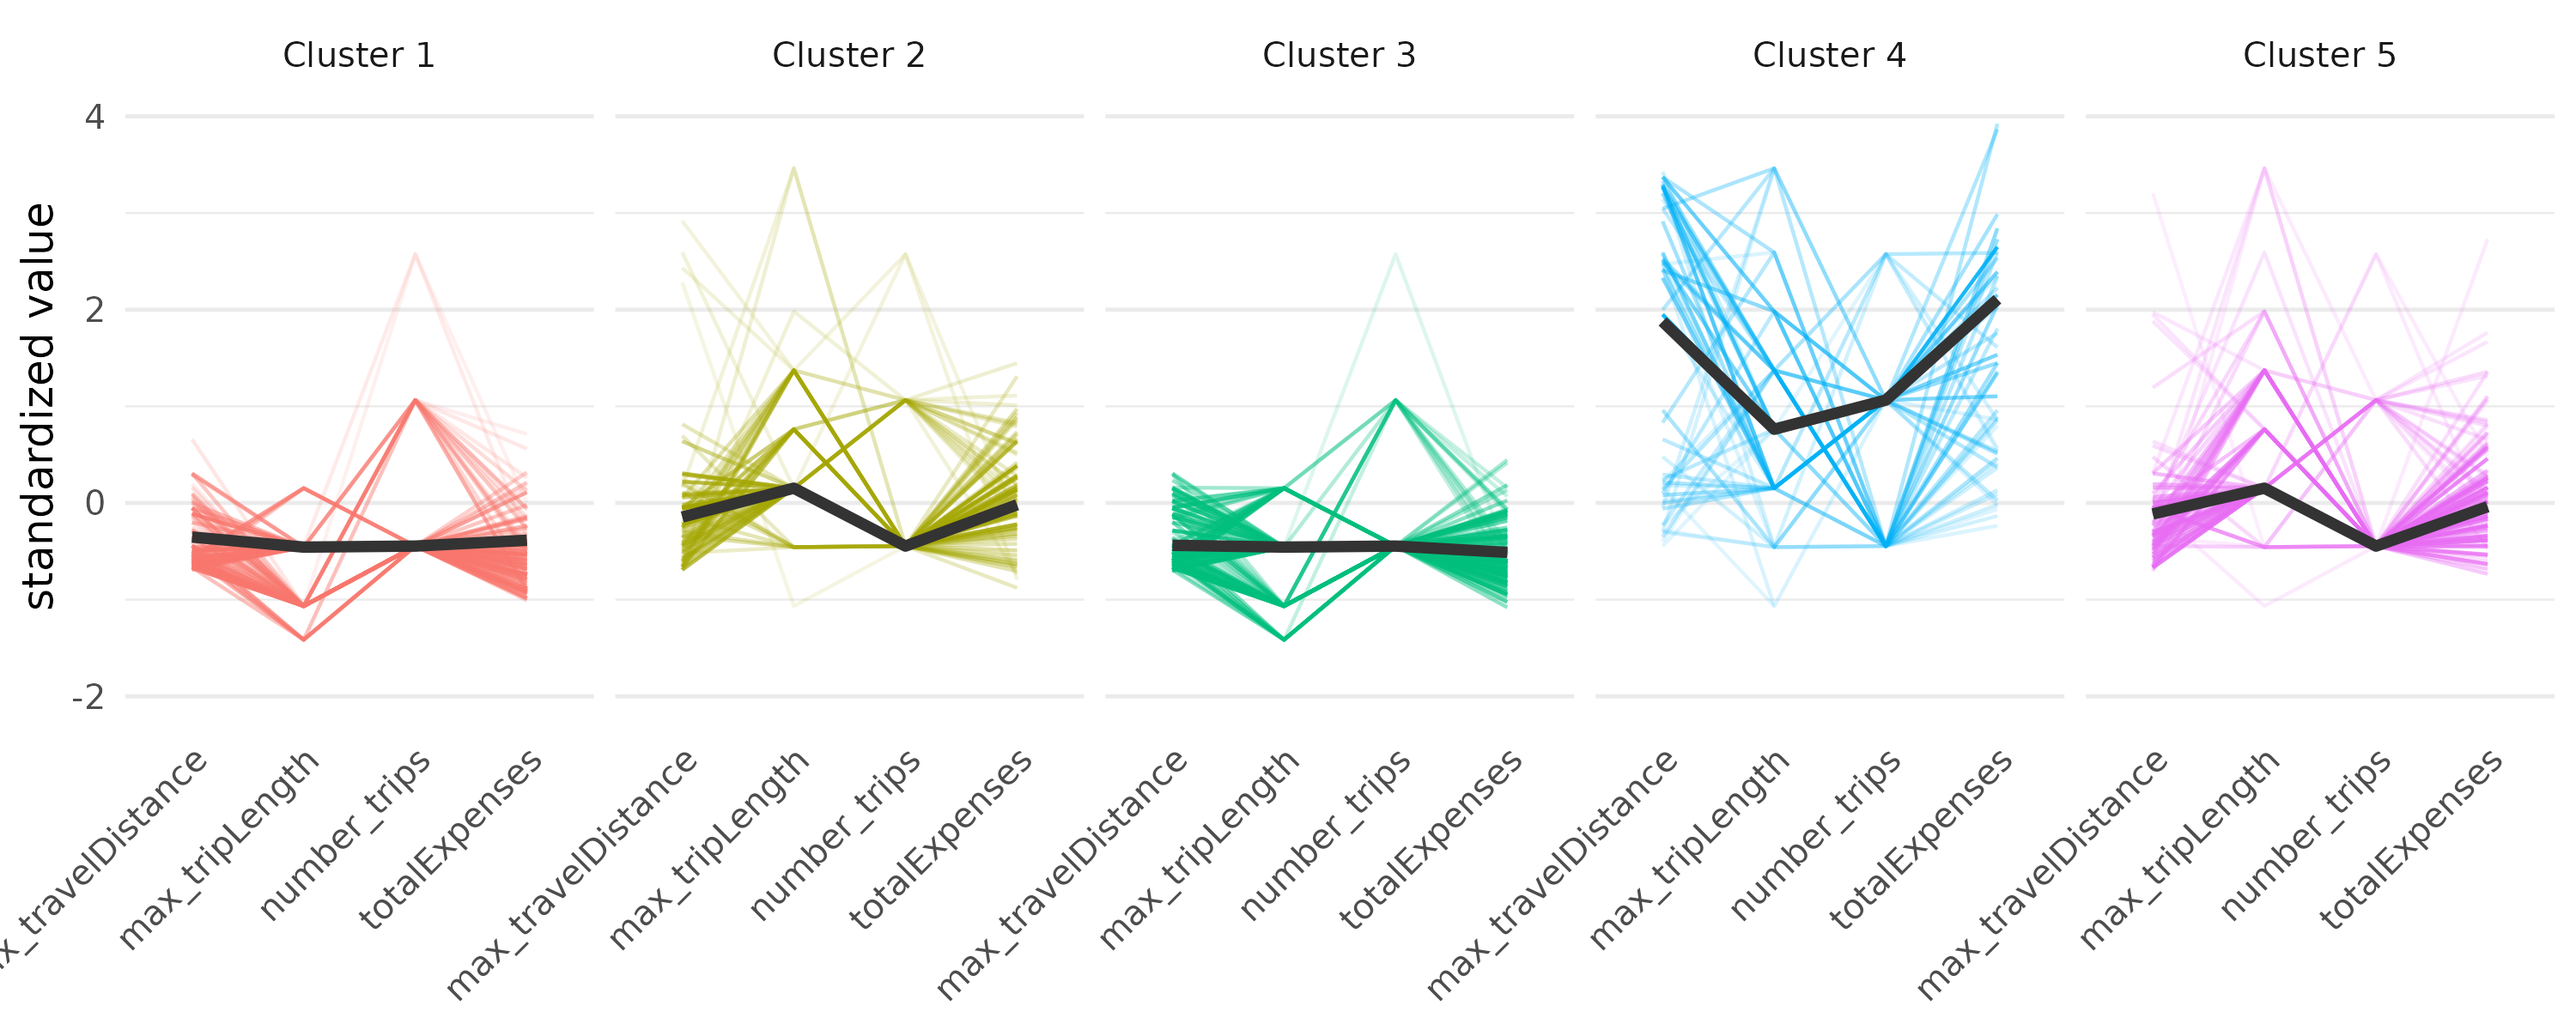
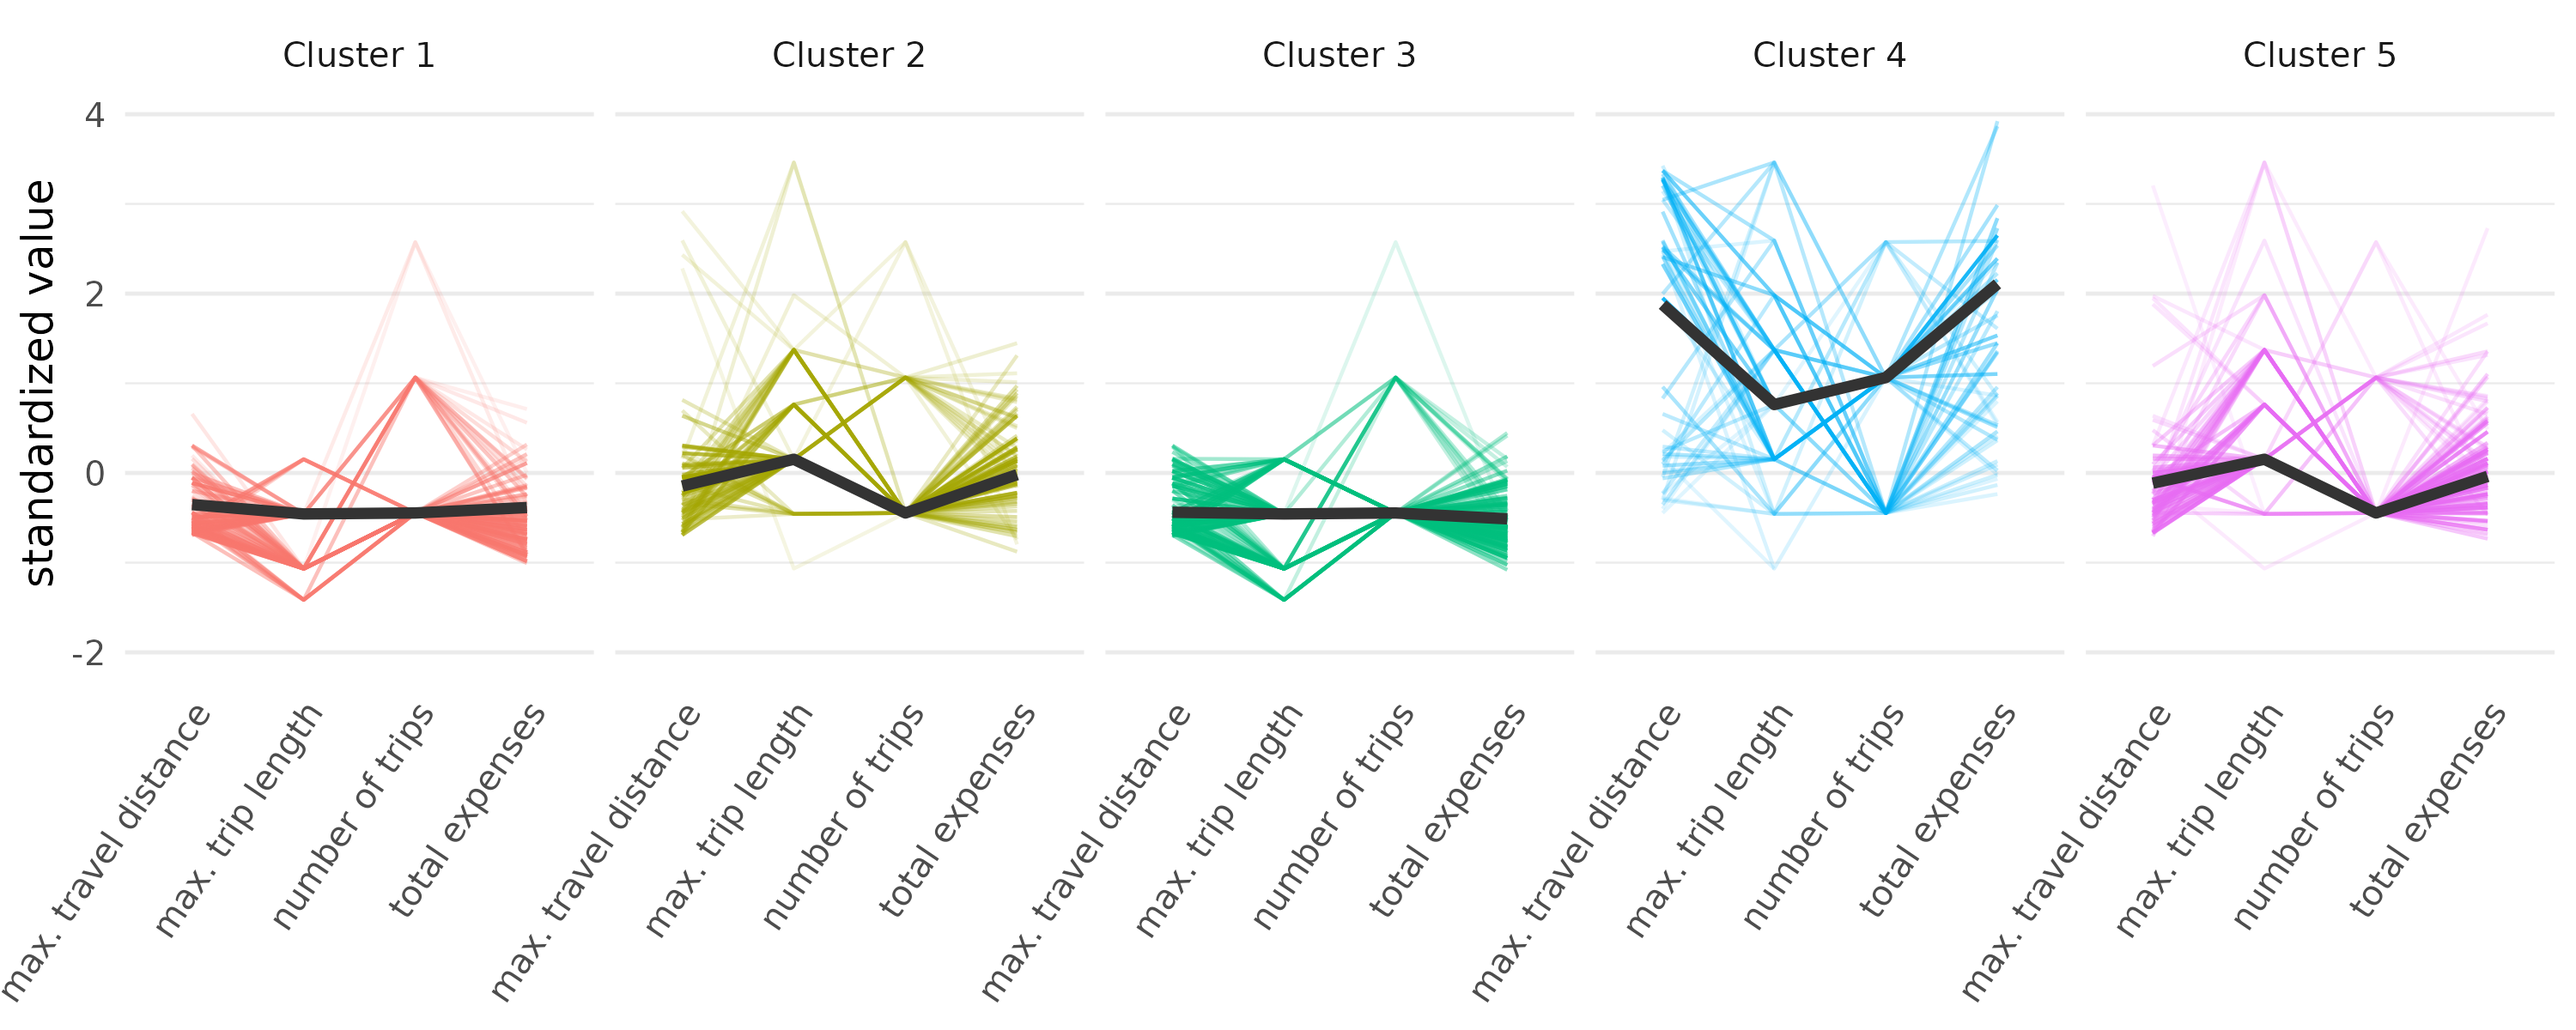
paper: updated figure 2 and the description

diff --git a/paper/paper.md b/paper/paper.md
@@ -172,7 +172,7 @@ randomly drawn samples of size 1\,000. As tourists are likely to share
 characteristics of several tourist types, we use the fuzzy version with a
 membership exponent of $m = 1.5$. Based on the minimum average weighted
 dissimilarity, the elbow criterion (see \autoref{fig:modelEffects})
-suggests the use of the solution with four different clusters.
+suggests the use of the solution with five different clusters.
 
 ![Elbow plot of clustering solutions with 1 to 10 clusters according to the minial average weighted distance.\label{fig:description}](figures/travel_elbow.png)
 
@@ -183,7 +183,7 @@ distance and lower costs, the tourists of cluster 2 tend to travel most
 frequently and spend the most money for travelling. Between the clusters 3 and
 4, there are only minor differences regarding travel distances and expenses.
 
-![Parallel coordinate plot showing individual paths of 500 randomly sampled observations over the standardized variables. The path of medoids are highlighted with bold black lines. The transparency of the line represents the membership score of the observation to the assigned cluster where less transparency encodes clearer membership, i.e. a lower degree of fuzzyness. \label{fig:parcoord}](figures/travel_clustered.png)
+![Parallel coordinate plot showing characteristics of 500 randomly sampled observations over the standardized variables. The characteristics of medoids are highlighted with bold black lines. The transparency of the line represents the membership score of the observation to the assigned cluster where less transparency encodes clearer membership, i.e. a lower degree of fuzzyness. \label{fig:parcoord}](figures/travel_clustered.png)
 
 # Acknowledgments
 
